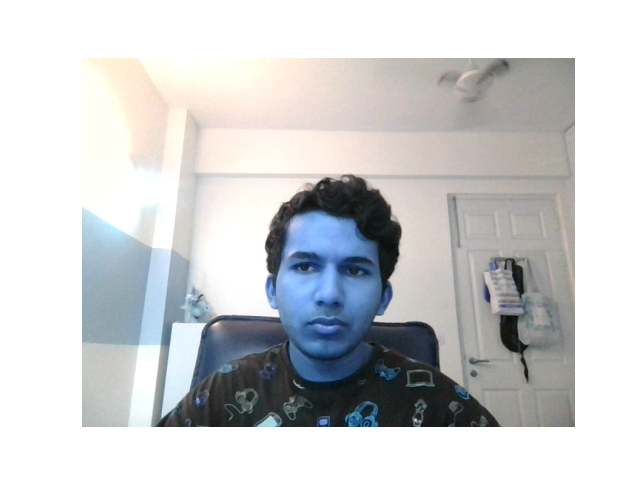
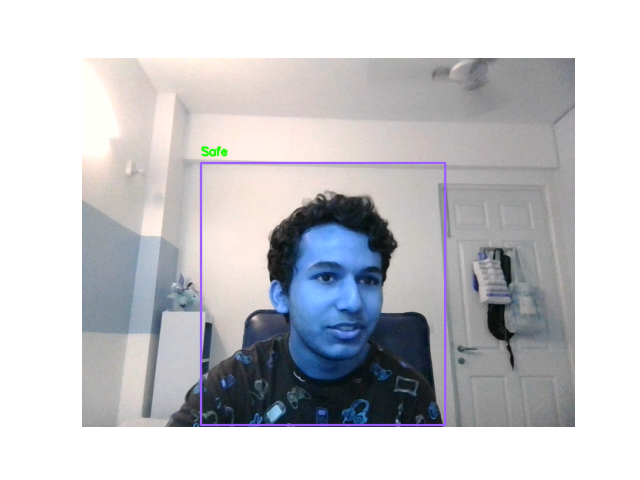
Integrated All Back-end

diff --git a/templates/live.html b/templates/live.html
@@ -29,9 +29,10 @@
         </button>
         <div class="collapse navbar-collapse" id="navbarResponsive">
             <ul class="navb ar-nav ms-auto">
-                <li class="nav-item"><a class="nav-link" href="/" style='color: black'>Home</a></li>
-                <li class="nav-item"><a class="nav-link" href="/project/" style='color: black'>Project</a></li>
-                <li class="nav-item"><a class="nav-link" href="/aboutus/" style='color: black'>About us</a></li>
+                <li class="nav-item"><a class="nav-link" href="/">Home</a></li>
+                <li class="nav-item"><a class="nav-link" href="/project/">Project</a></li>
+                <li class="nav-item"><a class="nav-link" href="/live_demo/">Live Demo</a></li>
+                <li class="nav-item"><a class="nav-link" href="/about_us/">About us</a></li>
             </ul>
         </div>
     </div>
@@ -41,14 +42,18 @@
     <div class="container px-4 px-lg-5">
         <!-- Featured Project Row-->
         <div class="row gx-0 mb-4 mb-lg-5 align-items-center">
-            <div class="col-xl-8 col-lg-7"><img src="{{ url_for('video') }}" width="50%" class="img-fluid mb-3 mb-lg-0"
-                                                alt="..."/></div>
+                <div class="container">
+        <div class="row">
+            <div class="col-lg-8  offset-lg-2">
+                <h3 class="mt-5">Live Streaming</h3>
+                <img src="{{ url_for('video_feed') }}" alt="Camera not Found. Please reload and try again." width="50%">
+            </div>
+        </div>
+    </div>
             <div class="col-xl-4 col-lg-5">
                 <div class="featured-text text-center text-lg-left">
-                    <h4>Shoreline</h4>
-                    <p class="text-black-50 mb-0">Grayscale is open source and MIT licensed. This means you can use it
-                        for any project - even commercial projects! Download it, customize it, and publish your
-                        website!</p>
+                    <h4>A Live Demonstration</h4>
+                    <p class="text-black-50 mb-0">Check if you yourself are safe, or in a dangerous situation.</p>
                 </div>
             </div>
         </div>

diff --git a/templates/about_us.html b/templates/about_us.html
@@ -28,7 +28,8 @@
                     <ul class="navbar-nav ms-auto">
                         <li class="nav-item"><a class="nav-link" href="/">Home</a></li>
                         <li class="nav-item"><a class="nav-link" href="/project/">Project</a></li>
-                        <li class="nav-item"><a class="nav-link" href="/aboutus/">About us</a></li>
+                        <li class="nav-item"><a class="nav-link" href="/live_demo/">Live Demo</a></li>
+                        <li class="nav-item"><a class="nav-link" href="/about_us/">About us</a></li>
                     </ul>
                 </div>
             </div>
@@ -96,7 +97,7 @@
                               <div class="team-member">
                                   <img class="mx-auto rounded-circle" src="../static/assets/img/People/Ariv.png" alt="..." width="271" height="271"/>
                                   <h4>Ariv Chaudhry</h4>
-                                  <p class="text-muted">Nerd</p>
+                                  <p class="text-muted">Easy to pick on; Fun to mess with; Psychopathic Perfectionist</p>
                               </div>
                             </div>
                         </div>

diff --git a/templates/index.html b/templates/index.html
@@ -33,7 +33,6 @@
                 <li class="nav-item"><a class="nav-link" href="/project/">Project</a></li>
                 <li class="nav-item"><a class="nav-link" href="/live_demo/">Live Demo</a></li>
                 <li class="nav-item"><a class="nav-link" href="/about_us/">About us</a></li>
-                <li class="nav-item"><a class="nav-link" href="#signup">Newsletter</a></li>
             </ul>
         </div>
     </div>

diff --git a/templates/results.html b/templates/results.html
@@ -55,6 +55,7 @@
                 </div>
             </div>
         </div>
+        <img src="{{ img }}" class="results">
     </div>
     <!-- Footer-->
     <footer class="footer bg-black small text-center text-white-50">

diff --git a/main.py b/main.py
@@ -1,7 +1,13 @@
 # import requirements needed
-from flask import Flask, render_template, request, redirect
+from flask import Flask, render_template, request, redirect, Response
 from utils import get_base_url
 import flask
+import cv2
+from skimage import io
+from model import run_model
+import os
+
+camera = cv2.VideoCapture(0)
 
 # set up the webserver
 # port may need to be changed if there are multiple flask servers running on same server
@@ -16,6 +22,30 @@ else:
     app = Flask(__name__, static_url_path=base_url + 'static')
 
 
+UPLOAD_FOLDER = 'static/assets/img'
+ALLOWED_EXTENSIONS = set(['png', 'jpg', 'jpeg'])
+
+app.config['UPLOAD_FOLDER'] = UPLOAD_FOLDER
+app.config['MAX_CONTENT_LENGTH'] = 32 * 1024 * 1024
+
+
+
+# Generate frames for live video
+def gen_frames():
+    camera = cv2.VideoCapture(0)
+    while True:
+        success, frame = camera.read()  # read the camera frame
+        if not success:
+            break
+        else:
+
+            frame = run_model(frame)
+            ret, buffer = cv2.imencode('.jpg', frame)
+            frame = buffer.tobytes()
+            yield (b'--frame\r\n'
+                   b'Content-Type: image/jpeg\r\n\r\n' + frame + b'\r\n')  # concat frame one by one and show result
+
+
 # set up the routes and logic for the webserver
 @app.route(f'{base_url}')
 def home():
@@ -27,14 +57,32 @@ def home_page():
     return render_template('index.html')
 
 
-@app.route('/project/')
-def project_page():
-    return render_template('project.html')
+
+@app.route('/project/', methods=['POST'])
+def upload_model():
+    if 'file' not in request.files:
+        flask.abort(403)
+    file_v = request.files['file']
+    path = UPLOAD_FOLDER + "/frame.png"
+    if os.path.isfile(path):
+        os.remove(path)
+
+    file_v.save(path)
+
+    img = io.imread(path)
+    run_model(img)
+    img = "../static/assets/results/frame.png"
+    return render_template("results.html", img=img)
+
+@app.route('/project/', methods=['GET'])
+def project():
+    return render_template("project.html")
 
 
 @app.route('/about_us/')
 def about_us_page():
     return render_template('about_us.html')
+
 
 
 @app.route('/email/', methods=['POST'])
@@ -47,7 +95,10 @@ def email():
 
 @app.route('/live_demo/')
 def live():
-    return render_template("demo.html")
+    if camera.isOpened():
+        return Response(gen_frames(), mimetype='multipart/x-mixed-replace; boundary=frame')
+    else:
+        return render_template("live.html")
 
 
 # define additional routes here

diff --git a/test.py b/test.py
@@ -81,13 +81,13 @@ def run_live():
         # print("Camera issues")
 
 
-run_live()
+# run_live()
 
 
 
 app = Flask(__name__)
 
-UPLOAD_FOLDER = '../static/assets/img'
+UPLOAD_FOLDER = 'static/assets/img'
 ALLOWED_EXTENSIONS = set(['png', 'jpg', 'jpeg'])
 
 app.config['UPLOAD_FOLDER'] = UPLOAD_FOLDER
@@ -112,5 +112,5 @@ def demo():
     return render_template("demo.html")
 
 #
-# if __name__ == "__main__":
-#     app.run(debug=True)
+if __name__ == "__main__":
+    app.run(debug=True)

diff --git a/model.py b/model.py
@@ -62,7 +62,7 @@ def run_model(img):
     plt.axis("off")
     # plt.legend()
     plt.imshow(img)
-    # plt.savefig("../static/assets/results/frame.png")
+    plt.savefig("static/assets/results/frame.png")
     return img
 
 def run_live():
@@ -78,3 +78,4 @@ def run_live():
         # else:
         #     break
         # print("Camera issues")
+

diff --git a/demo.py b/demo.py
@@ -21,8 +21,6 @@ def gen_frames():
                    b'Content-Type: image/jpeg\r\n\r\n' + frame + b'\r\n')  # concat frame one by one and show result
 
 
-
-
 @app.route('/')
 def video_feed():
     return Response(gen_frames(), mimetype='multipart/x-mixed-replace; boundary=frame')
